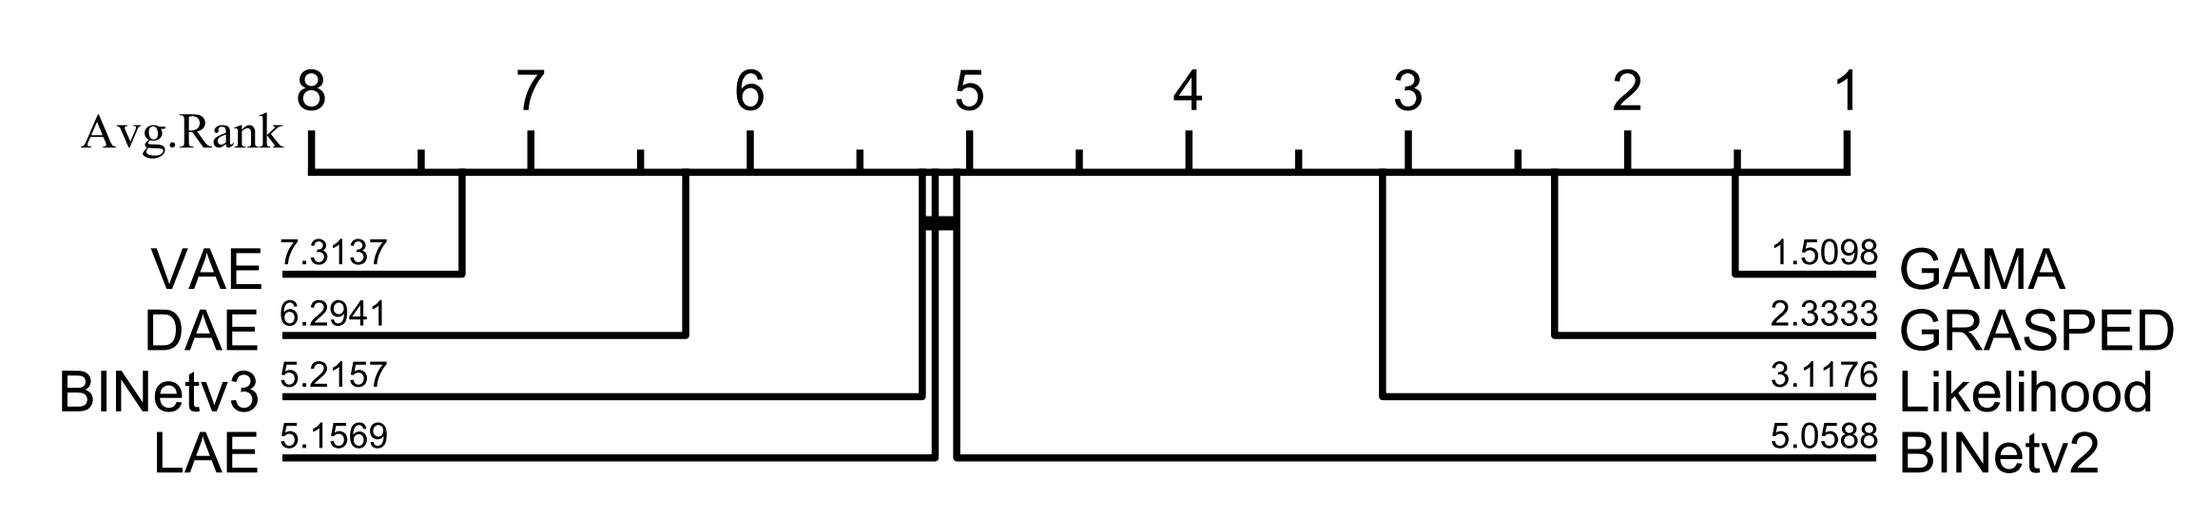
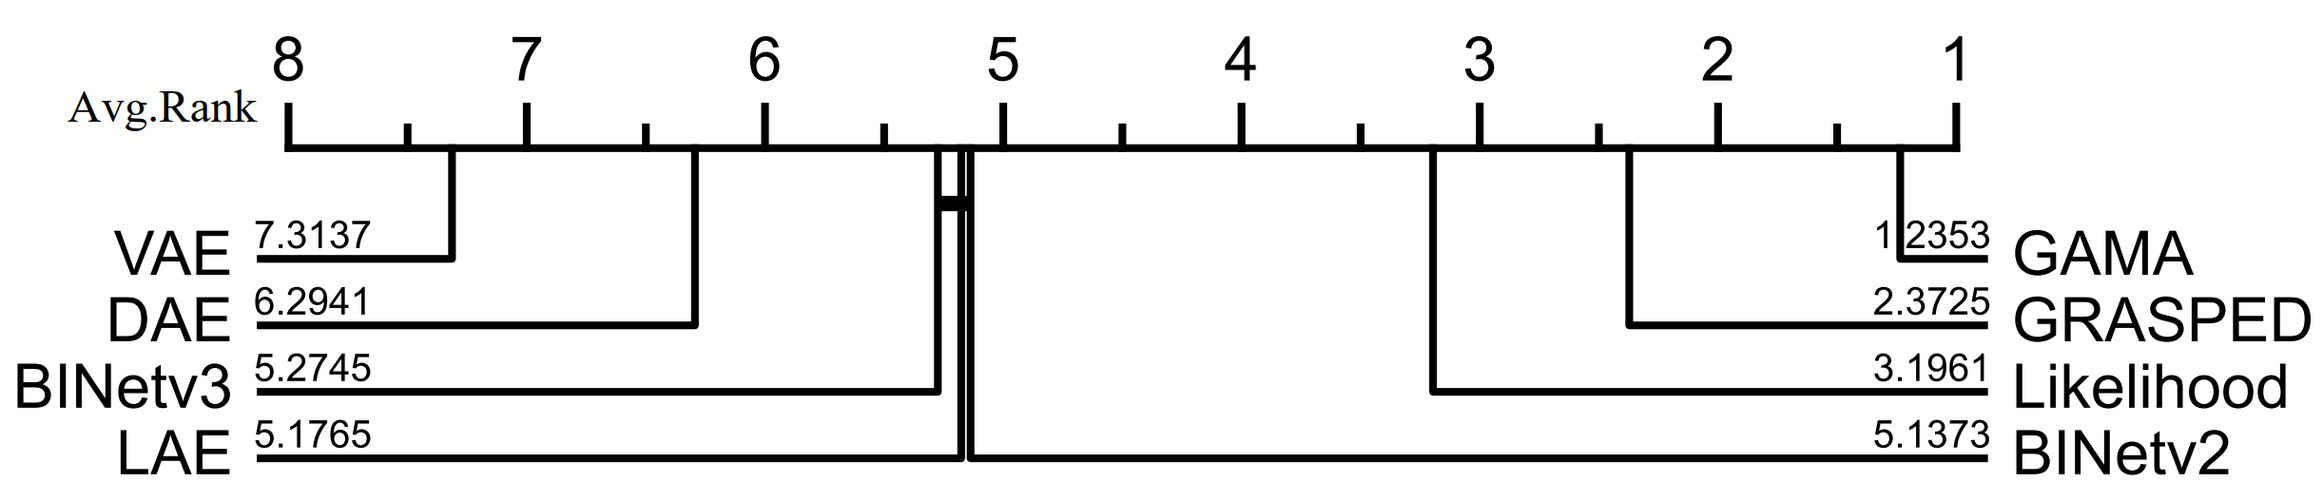
update

diff --git a/README.md b/README.md
@@ -15,25 +15,27 @@ future directions are discussed in order to promote the evolution of business pr
 
 ### Studied Models
 
-|    Model     | Year  |     Perspective     |   Granularity    |                                                                                                                                             Paper                                                                                                                                              |
-|:------------:|:-----:|:-------------------:|:----------------:|:----------------------------------------------------------------------------------------------------------------------------------------------------------------------------------------------------------------------------------------------------------------------------------------------:|
-|    Naive     | 2013  |    Control-flow     |   Trace-level    |            [Algorithms for anomaly detection of traces in logs of process aware information systems](https://www.sciencedirect.com/science/article/abs/pii/S0306437912000567)             |
-|   Sampling   | 2013  |    Control-flow     |   Trace-level    |            [Algorithms for anomaly detection of traces in logs of process aware information systems](https://www.sciencedirect.com/science/article/abs/pii/S0306437912000567)             |
-|  Likelihood  | 2016  |  Multi-perspective  | Attribute-level  |                                                                           [Multi-perspective anomaly detection in business process execution events](https://link.springer.com/chapter/10.1007/978-3-319-48472-3_5)                                                                            |
-|     DAE      | 2018  |  Multi-perspective  | Attribute-level  |                                                                                            [Analyzing business process anomalies using autoencoders](https://link.springer.com/article/10.1007/s10994-018-5702-8)                                                                                             |
-|   BINetv2    | 2018  |  Multi-perspective  | Attribute-level  |                                                                                   [BINet: Multivariate business process anomaly detection using deep learning](https://link.springer.com/chapter/10.1007/978-3-319-98648-7_16)                                                                                   |
-|     VAE      | 2019  |  Multi-perspective  | Attribute-level  |                                                                                            [Autoencoders for improving quality of process event logs](https://www.sciencedirect.com/science/article/abs/pii/S0957417419302829)                                                                                            |
-|     LAE      | 2019  |  Multi-perspective  | Attribute-level  |                                                                                            [Autoencoders for improving quality of process event logs](https://www.sciencedirect.com/science/article/abs/pii/S0957417419302829)                                                                                            |
-|    W2V-LOF   | 2020  |    Control-flow     |   Trace-level    |                                                                                           [Anomaly Detection on Event Logs with a Scarcity of Labels](https://ieeexplore.ieee.org/document/9230308)                                                                                            |
-|   VAE-OCSVM  | 2021  |    Control-flow     |   Trace-level    |                                                                              [Variational Autoencoder for Anomaly Detection in Event Data in Online Process Mining](https://arxiv.org/abs/2208.03326)                                                                              |
-|     GAE      | 2021  |  Multi-perspective  |   Trace-level    |                                                                                           [Graph Autoencoders for Business Process Anomaly Detection](https://link.springer.com/chapter/10.1007/978-3-030-85469-0_26)                                                                                            |
-|   Leverage   | 2022  |    Control-flow     |   Trace-level    | [Keeping our rivers clean: Information-theoretic online anomaly detection for streaming business process events](https://www.sciencedirect.com/science/article/abs/pii/S0306437921001125) |
-|   BINetv3    | 2022  |  Multi-perspective  | Attribute-level  |                                                                                        [BINet: Multi-perspective business process anomaly classification](https://www.sciencedirect.com/science/article/abs/pii/S0306437919305101)                                                                                        |
-|   GRASPED    | 2023  |  Multi-perspective  | Attribute-level  |                                                                           [GRASPED: A GRU-AE Network Based Multi-Perspective Business Process Anomaly Detection Model](https://ieeexplore.ieee.org/document/10088425)                                                                           |
-|     GAMA     | 2023  |  Multi-perspective  | Attribute-level  |                                                                     [GAMA: A Multi-graph-based Anomaly Detection Framework for Business Processes via Graph Neural Networks](https://www.techrxiv.org/articles/preprint/GAMA_A_Multi-graph-based_Anomaly_Detection_Framework_for_Business_Processes_via_Graph_Neural_Networks/23627850)                                                                     |
+|   Model    | Year |    Perspective    |   Granularity   |                                                                                                                                Paper                                                                                                                                |
+|:----------:|:----:|:-----------------:|:---------------:|:-------------------------------------------------------------------------------------------------------------------------------------------------------------------------------------------------------------------------------------------------------------------:|
+|   Naive    | 2013 |   Control-flow    |   Trace-level   |                                                 [Algorithms for anomaly detection of traces in logs of process aware information systems](https://www.sciencedirect.com/science/article/abs/pii/S0306437912000567)                                                  |
+|  Sampling  | 2013 |   Control-flow    |   Trace-level   |                                                 [Algorithms for anomaly detection of traces in logs of process aware information systems](https://www.sciencedirect.com/science/article/abs/pii/S0306437912000567)                                                  |
+| Likelihood | 2016 | Multi-perspective | Attribute-level |                                                              [Multi-perspective anomaly detection in business process execution events](https://link.springer.com/chapter/10.1007/978-3-319-48472-3_5)                                                              |
+|    DAE     | 2018 | Multi-perspective | Attribute-level |                                                                       [Analyzing business process anomalies using autoencoders](https://link.springer.com/article/10.1007/s10994-018-5702-8)                                                                        |
+|  BINetv2   | 2018 | Multi-perspective | Attribute-level |                                                            [BINet: Multivariate business process anomaly detection using deep learning](https://link.springer.com/chapter/10.1007/978-3-319-98648-7_16)                                                             |
+|    VAE     | 2019 | Multi-perspective | Attribute-level |                                                                 [Autoencoders for improving quality of process event logs](https://www.sciencedirect.com/science/article/abs/pii/S0957417419302829)                                                                 |
+|    LAE     | 2019 | Multi-perspective | Attribute-level |                                                                 [Autoencoders for improving quality of process event logs](https://www.sciencedirect.com/science/article/abs/pii/S0957417419302829)                                                                 |
+|  W2V-LOF   | 2020 |   Control-flow    |   Trace-level   |                                                                              [Anomaly Detection on Event Logs with a Scarcity of Labels](https://ieeexplore.ieee.org/document/9230308)                                                                              |
+| VAE-OCSVM  | 2021 |   Control-flow    |   Trace-level   |                                                                      [Variational Autoencoder for Anomaly Detection in Event Data in Online Process Mining](https://arxiv.org/abs/2208.03326)                                                                       |
+|    GAE     | 2021 | Multi-perspective |   Trace-level   |                                                                     [Graph Autoencoders for Business Process Anomaly Detection](https://link.springer.com/chapter/10.1007/978-3-030-85469-0_26)                                                                     |
+|  Leverage  | 2022 |   Control-flow    |   Trace-level   |                                      [Keeping our rivers clean: Information-theoretic online anomaly detection for streaming business process events](https://www.sciencedirect.com/science/article/abs/pii/S0306437921001125)                                      |
+|  BINetv3   | 2022 | Multi-perspective | Attribute-level |                                                             [BINet: Multi-perspective business process anomaly classification](https://www.sciencedirect.com/science/article/abs/pii/S0306437919305101)                                                             |
+|  GRASPED   | 2023 | Multi-perspective | Attribute-level |                                                             [GRASPED: A GRU-AE Network Based Multi-Perspective Business Process Anomaly Detection Model](https://ieeexplore.ieee.org/document/10088425)                                                             |
+|    GAMA    | 2023 | Multi-perspective | Attribute-level | [GAMA: A Multi-graph-based Anomaly Detection Framework for Business Processes via Graph Neural Networks](https://www.techrxiv.org/articles/preprint/GAMA_A_Multi-graph-based_Anomaly_Detection_Framework_for_Business_Processes_via_Graph_Neural_Networks/23627850) |
 
 ## Requirements
+
 ### Win
+
 - [PyTorch==1.13.0](https://pytorch.org)
 - [tensorflow-gpu==2.6.0](https://www.tensorflow.org/)
 - [NumPy==1.21.5](https://numpy.org)
@@ -42,7 +44,9 @@ future directions are discussed in order to promote the evolution of business pr
 - [pyg==2.3.0](https://pytorch-geometric.readthedocs.io/en/latest/index.html)
 - [pandas==1.3.5](https://pandas.pydata.org/)
 - [gensim==4.1.2](https://radimrehurek.com/gensim/)
+
 ### Linux
+
 - [PyTorch==1.13.0](https://pytorch.org)
 - [tensorflow==2.10.0](https://www.tensorflow.org/)
 - [NumPy==1.24.3](https://numpy.org)
@@ -68,15 +72,21 @@ i) **_BPIC12_**: Event log of a loan application process
 
 ii) **_BPIC13_**: Logs of Volvo IT incident and problem management.
 
-iii) **_BPIC15_**: This data is provided by five Dutch municipalities. The data contains all building permit applications over a period of approximately four years. 
+iii) **_BPIC15_**: This data is provided by five Dutch municipalities. The data contains all building permit
+applications over a period of approximately four years.
 
-iv) **_BPIC17_**: This event log pertains to a loan application process of a Dutch financial institute. The data contains all applications filed trough an online system in 2016 and their subsequent events until February 1st 2017, 15:11.
+iv) **_BPIC17_**: This event log pertains to a loan application process of a Dutch financial institute. The data
+contains all applications filed trough an online system in 2016 and their subsequent events until February 1st 2017, 15:
 
-v) **_BPIC20_**: The dataset contains events pertaining to two years of travel expense claims. In 2017, events were collected for two departments, in 2018 for the entire university.
+11.
+
+v) **_BPIC20_**: The dataset contains events pertaining to two years of travel expense claims. In 2017, events were
+collected for two departments, in 2018 for the entire university.
 
 vi) **_Billing_**: This log contains events that pertain to the billing of medical services provided by a hospital.
 
-vii) **_Receipt_**: This log contains records of the receiving phase of the building permit application process in an anonymous municipality.
+vii) **_Receipt_**: This log contains records of the receiving phase of the building permit application process in an
+anonymous municipality.
 
 viii) **_RTFMP_**: Real-life event log of an information system managing road traffic fines.
 
@@ -87,37 +97,38 @@ and **_Wide_**.
 
 The summary of statistics for each event log is presented below:
 
-| Log            | #Activities    | #Traces    | #Events         | Max trace length       | Min trace length    | #Attributes    | #Attribute values  |
-|:--------------:|:--------------:|:----------:|:---------------:|:----------------------:|:-------------------:|:--------------:|:------------------:|
-| Gigantic   | 76-78        | 5000     | 28243-31989 | 11               | 3                | 1-4          | 70-363             |
-| Huge       | 54           | 5000     | 36377-42999 | 11               | 5                | 1-4          | 69-340             |
-| Large      | 42           | 5000     | 51099-56850 | 12               | 10               | 1-4          | 68-292             |
-| Medium     | 32           | 5000     | 28416-31372 | 8                | 3                | 1-4          | 66-276             |
-| P2P        | 13           | 5000     | 37941-42634 | 11               | 7                | 1-4          | 39-146             |
-| Paper      | 14           | 5000     | 49839-54390 | 12               | 9                | 1-4          | 36-128             |
-| Small      | 20           | 5000     | 42845-46060 | 10               | 7                | 1-4          | 39-144             |
-| Wide       | 23-34        | 5000     | 29128-31228 | 7                | 5-6              | 1-4          | 53-264             |
-| BPIC12     | 36           | 13087    | 262200      | 175              | 3                | 0            | 0                  |
-| BPIC13\_C  | 7            | 1487     | 6660        | 35               | 1                | 4            | 638                |
-| BPIC13\_I  | 13           | 7554     | 65533       | 123              | 1                | 4            | 2144               |
-| BPIC13\_O  | 5            | 819      | 2351        | 22               | 1                | 2            | 251                |
-| BPIC15\_1  | 398          | 1199     | 52217       | 101              | 2                | 2            | 49                 |
-| BPIC15\_2  | 410          | 832      | 44354       | 132              | 1                | 2            | 20                 |
-| BPIC15\_3  | 383          | 1409     | 59681       | 124              | 3                | 3            | 419                |
-| BPIC15\_4  | 356          | 1053     | 47293       | 116              | 1                | 2            | 22                 |
-| BPIC15\_5  | 389          | 1156     | 59083       | 154              | 5                | 2            | 38                 |
-| BPIC17     | 26           | 31509    | 1202267     | 180              | 10               | 1            | 149                |
-| BPIC20\_D  | 17           | 10500    | 56437       | 24               | 1                | 2            | 9                  |
-| BPIC20\_I  | 34           | 6449     | 72151       | 27               | 3                | 2            | 10                 |
-| BPIC20\_PE | 51           | 7065     | 86581       | 90               | 3                | 2            | 10                 |
-| BPIC20\_PR | 29           | 2099     | 18246       | 21               | 1                | 2            | 10                 |
-| BPIC20\_R  | 19           | 6886     | 36796       | 20               | 1                | 2            | 10                 |
-| Billing    | 18           | 100000   | 451359      | 217              | 1                | 0            | 0                  |
-| Receipt    | 27           | 1434     | 8577        | 25               | 1                | 2            | 58                 |
-| RTFMP      | 11           | 150370   | 561470      | 20               | 2                | 0            | 0                  |
-| Sepsis     | 16           | 1050     | 15214       | 185              | 3                | 1            | 26                 |
+|    Log     | #Activities | #Traces |   #Events   | Max trace length | Min trace length | #Attributes | #Attribute values |
+|:----------:|:-----------:|:-------:|:-----------:|:----------------:|:----------------:|:-----------:|:-----------------:|
+|  Gigantic  |    76-78    |  5000   | 28243-31989 |        11        |        3         |     1-4     |      70-363       |
+|    Huge    |     54      |  5000   | 36377-42999 |        11        |        5         |     1-4     |      69-340       |
+|   Large    |     42      |  5000   | 51099-56850 |        12        |        10        |     1-4     |      68-292       |
+|   Medium   |     32      |  5000   | 28416-31372 |        8         |        3         |     1-4     |      66-276       |
+|    P2P     |     13      |  5000   | 37941-42634 |        11        |        7         |     1-4     |      39-146       |
+|   Paper    |     14      |  5000   | 49839-54390 |        12        |        9         |     1-4     |      36-128       |
+|   Small    |     20      |  5000   | 42845-46060 |        10        |        7         |     1-4     |      39-144       |
+|    Wide    |    23-34    |  5000   | 29128-31228 |        7         |       5-6        |     1-4     |      53-264       |
+|   BPIC12   |     36      |  13087  |   262200    |       175        |        3         |      0      |         0         |
+| BPIC13\_C  |      7      |  1487   |    6660     |        35        |        1         |      4      |        638        |
+| BPIC13\_I  |     13      |  7554   |    65533    |       123        |        1         |      4      |       2144        |
+| BPIC13\_O  |      5      |   819   |    2351     |        22        |        1         |      2      |        251        |
+| BPIC15\_1  |     398     |  1199   |    52217    |       101        |        2         |      2      |        49         |
+| BPIC15\_2  |     410     |   832   |    44354    |       132        |        1         |      2      |        20         |
+| BPIC15\_3  |     383     |  1409   |    59681    |       124        |        3         |      3      |        419        |
+| BPIC15\_4  |     356     |  1053   |    47293    |       116        |        1         |      2      |        22         |
+| BPIC15\_5  |     389     |  1156   |    59083    |       154        |        5         |      2      |        38         |
+|   BPIC17   |     26      |  31509  |   1202267   |       180        |        10        |      1      |        149        |
+| BPIC20\_D  |     17      |  10500  |    56437    |        24        |        1         |      2      |         9         |
+| BPIC20\_I  |     34      |  6449   |    72151    |        27        |        3         |      2      |        10         |
+| BPIC20\_PE |     51      |  7065   |    86581    |        90        |        3         |      2      |        10         |
+| BPIC20\_PR |     29      |  2099   |    18246    |        21        |        1         |      2      |        10         |
+| BPIC20\_R  |     19      |  6886   |    36796    |        20        |        1         |      2      |        10         |
+|  Billing   |     18      | 100000  |   451359    |       217        |        1         |      0      |         0         |
+|  Receipt   |     27      |  1434   |    8577     |        25        |        1         |      2      |        58         |
+|   RTFMP    |     11      | 150370  |   561470    |        20        |        2         |      0      |         0         |
+|   Sepsis   |     16      |  1050   |    15214    |       185        |        3         |      1      |        26         |
 
 ## Experiment Results
+
 Critical difference diagram over trace-level anomaly detection:
 ![model](pic/multiType_trace_aupr.png)
 
@@ -126,33 +137,32 @@ Critical difference diagram over attribute-level anomaly detection:
 
 Average precision (_AP_) of trace-level anomaly detection:
 
-|              | Gigantic  | Huge      | Large     | Medium    | P2P       | Paper     | Small     | Wide      | BPIC12    | BPIC13\_C | BPIC13\_I | BPIC13\_O | BPIC15\_1 | BPIC15\_2 | BPIC15\_3 | BPIC15\_4 | BPIC15\_5 | BPIC17    | BPIC20\_D | BPIC20\_I | BPIC20\_PE | BPIC20\_PR | BPIC20\_R | Billing   | Receipt   | RTFMP     | Sepsis    |
-|:------------:|:---------:|:---------:|:---------:|:---------:|:---------:|:---------:|:---------:|:---------:|:---------:|:---------:|:---------:|:---------:|:---------:|:---------:|:---------:|:---------:|:---------:|:---------:|:---------:|:---------:|:----------:|:----------:|:---------:|:---------:|:---------:|:---------:|:---------:|
-| Naive        | 0.43      | 0.551     | 0.58      | 0.556     | 0.772     | 0.796     | 0.853     | 0.66      | 0.279     | 0.311     | 0.305     | 0.249     | 0.258     | 0.251     | 0.253     | 0.251     | 0.25      | 0.261     | 0.586     | 0.355     | 0.316      | 0.445      | 0.6       | 0.522     | 0.521     | 0.643     | 0.254     |
-| Sampling     | 0.756     | 0.846     | 0.875     | 0.818     | 0.85      | 0.864     | 0.859     | 0.848     | 0.276     | 0.315     | 0.298     | 0.255     | 0.258     | 0.251     | 0.253     | 0.251     | 0.25      | 0.26      | 0.61      | 0.361     | 0.315      | 0.491      | 0.622     | 0.55      | 0.522     | 0.575     | 0.253     |
-| Leverage     | 0.827     | 0.897     | 0.907     | 0.887     | 0.887     | 0.894     | 0.893     | 0.897     | 0.449     | 0.544     | 0.502     | 0.432     | 0         | 0         | 0         | 0         | 0         | 0.295     | 0.785     | 0.697     | 0.561      | 0.681      | 0.76      | 0.387     | 0.698     | 0.889     | 0.305     |
-| Likelihood   | 0.8       | 0.927     | 0.946     | 0.905     | 0.975     | 0.982     | **0.989** | 0.932     | **0.831** | 0.274     | 0.309     | 0.211     | 0.365     | 0.344     | 0.416     | 0.375     | 0.379     | 0.504     | **0.909** | **0.855** | 0.754      | **0.829**  | **0.895** | **0.821** | 0.564     | **0.893** | 0.615     |
-| W2V-LOF      | 0.58      | 0.723     | 0.759     | 0.664     | 0.677     | 0.75      | 0.714     | 0.691     | 0.297     | 0.28      | 0.307     | 0.231     | 0.276     | 0.275     | 0.313     | 0.299     | 0.299     | 0.342     | 0.442     | 0.442     | 0.406      | 0.48       | 0.458     | 0.285     | 0.495     | 0.218     | 0.31      |
-| VAE-OCSVM    | 0.247     | 0.238     | 0.24      | 0.244     | 0.24      | 0.236     | 0.238     | 0.24      | 0.2       | 0.213     | 0.247     | 0.164     | 0.257     | 0.253     | 0.249     | 0.248     | 0.243     | 0.246     | 0.241     | 0.246     | 0.246      | 0.25       | 0.24      | 0.148     | 0.239     | 0.152     | 0.242     |
-| GAE          | 0.385     | 0.363     | 0.551     | 0.358     | 0.573     | 0.464     | 0.426     | 0.59      | 0.37      | 0.266     | 0.314     | 0.257     | 0.259     | 0.255     | 0.27      | 0.254     | 0.257     | 0.256     | 0.432     | 0.297     | 0.288      | 0.3        | 0.4       | 0.285     | 0.303     | 0.293     | 0.283     |
-| DAE          | 0.569     | 0.564     | 0.621     | 0.634     | 0.656     | 0.579     | 0.658     | 0.675     | 0.621     | 0.389     | 0.444     | 0.321     | 0.286     | 0.282     | 0.291     | 0.289     | 0.302     | 0.452     | 0.849     | 0.589     | 0.577      | 0.572      | 0.846     | 0.689     | 0.587     | 0.83      | 0.373     |
-| VAE          | 0.507     | 0.578     | 0.662     | 0.58      | 0.593     | 0.802     | 0.775     | 0.597     | 0.634     | 0.328     | 0.316     | 0.252     | 0.272     | 0.273     | 0.288     | 0.266     | 0.267     | 0.319     | 0.662     | 0.379     | 0.417      | 0.365      | 0.583     | 0.646     | 0.475     | 0.854     | 0.443     |
-| LAE          | 0.465     | 0.553     | 0.557     | 0.624     | 0.727     | 0.757     | 0.828     | 0.76      | 0.659     | 0.301     | 0.272     | 0.327     | 0.268     | 0.263     | 0.26      | 0.264     | 0.259     | 0.298     | 0.731     | 0.496     | 0.492      | 0.613      | 0.822     | 0.749     | 0.451     | 0.881     | 0.322     |
-| BINetv2      | 0.534     | 0.598     | 0.596     | 0.583     | 0.639     | 0.62      | 0.609     | 0.581     | 0.736     | 0.181     | 0.546     | 0.169     | 0.283     | 0.267     | 0.287     | 0.291     | 0.277     | 0.69      | 0.834     | 0.835     | **0.821**  | 0.815      | 0.849     | 0.645     | 0.33      | 0.695     | 0.311     |
-| BINetv3      | 0.542     | 0.579     | 0.614     | 0.622     | 0.611     | 0.616     | 0.619     | 0.598     | 0.682     | 0.269     | 0.535     | 0.206     | 0.287     | 0.27      | 0.289     | 0.271     | 0.276     | 0.689     | 0.799     | 0.827     | 0.817      | 0.778      | 0.799     | 0.688     | 0.323     | 0.724     | 0.311     |
-| GRASPED      | 0.824     | 0.924     | 0.941     | 0.885     | 0.961     | 0.977     | 0.966     | 0.907     | 0.735     | 0.556     | **0.579** | 0.427     | **0.480** | **0.459** | **0.491** | **0.503** | **0.508** | **0.796** | 0.755     | 0.8       | 0.758      | 0.727      | 0.839     | 0.16      | 0.644     | 0.156     | 0.47      |
-| GAMA         | **0.900** | **0.965** | **0.977** | **0.933** | **0.980** | **0.984** | 0.985     | **0.971** | 0.772     | **0.578** | 0.531     | **0.456** | 0.391     | 0.457     | 0.423     | 0.443     | 0.405     | 0.423     | 0.633     | 0.659     | 0.624      | 0.753      | 0.709     | 0.742     | **0.795** | 0.664     | **0.659** |
-
+|            | Gigantic  |   Huge    |   Large   |  Medium   |    P2P    |   Paper   |   Small   |   Wide    |  BPIC12   | BPIC13\_C | BPIC13\_I | BPIC13\_O | BPIC15\_1 | BPIC15\_2 | BPIC15\_3 | BPIC15\_4 | BPIC15\_5 |  BPIC17   | BPIC20\_D | BPIC20\_I | BPIC20\_PE | BPIC20\_PR | BPIC20\_R |  Billing  |  Receipt  |   RTFMP   |  Sepsis   |
+|:----------:|:---------:|:---------:|:---------:|:---------:|:---------:|:---------:|:---------:|:---------:|:---------:|:---------:|:---------:|:---------:|:---------:|:---------:|:---------:|:---------:|:---------:|:---------:|:---------:|:---------:|:----------:|:----------:|:---------:|:---------:|:---------:|:---------:|:---------:|
+|   Naive    |   0.430   |   0.551   |   0.580   |   0.556   |   0.772   |   0.796   |   0.853   |   0.660   |   0.279   |   0.311   |   0.305   |   0.249   |   0.258   |   0.251   |   0.253   |   0.251   |   0.250   |   0.261   |   0.586   |   0.355   |   0.316    |   0.445    |   0.600   |   0.522   |   0.521   |   0.643   |   0.254   |
+|  Sampling  |   0.756   |   0.846   |   0.875   |   0.818   |   0.85    |   0.864   |   0.859   |   0.848   |   0.276   |   0.315   |   0.298   |   0.255   |   0.258   |   0.251   |   0.253   |   0.251   |   0.250   |   0.260   |   0.610   |   0.361   |   0.315    |   0.491    |   0.622   |   0.550   |   0.522   |   0.575   |   0.253   |
+|  Leverage  |   0.827   |   0.897   |   0.907   |   0.887   |   0.887   |   0.894   |   0.893   |   0.897   |   0.449   |   0.544   |   0.502   |   0.432   |     0     |     0     |     0     |     0     |     0     |   0.295   |   0.785   |   0.697   |   0.561    |   0.681    |   0.760   |   0.387   |   0.698   |   0.889   |   0.305   |
+| Likelihood |   0.800   |   0.927   |   0.946   |   0.905   |   0.975   | **0.982** | **0.989** |   0.932   |   0.831   |   0.274   |   0.309   |   0.211   |   0.365   |   0.344   |   0.416   |   0.375   |   0.379   |   0.504   |   0.909   |   0.855   |   0.754    |   0.829    |   0.895   | **0.821** |   0.564   | **0.893** | **0.615** |
+|  W2V-LOF   |   0.617   |   0.734   |   0.775   |   0.712   |   0.752   |   0.801   |   0.781   |   0.759   |   0.402   |   0.359   |   0.370   |   0.288   |   0.302   |   0.316   |   0.373   |   0.338   |   0.340   |   0.430   |   0.472   |   0.523   |   0.521    |   0.563    |   0.483   |   0.280   |   0.618   |   0.258   |   0.363   |
+| VAE-OCSVM  |   0.241   |   0.229   |   0.225   |   0.239   |   0.231   |   0.222   |   0.226   |   0.233   |   0.190   |   0.217   |   0.247   |   0.169   |   0.263   |   0.265   |   0.247   |   0.246   |   0.245   |   0.242   |   0.235   |   0.240   |   0.236    |   0.244    |   0.232   |   0.148   |   0.240   |   0.150   |   0.238   |
+|    GAE     |   0.459   |   0.416   |   0.617   |   0.411   |   0.615   |   0.537   |   0.494   |   0.648   |   0.386   |   0.334   |   0.321   |   0.237   |   0.259   |   0.255   |   0.271   |   0.255   |   0.258   |   0.256   |   0.452   |   0.301   |   0.296    |   0.316    |   0.434   |   0.290   |   0.284   |   0.396   |   0.278   |
+|    DAE     |   0.569   |   0.564   |   0.621   |   0.634   |   0.656   |   0.579   |   0.658   |   0.675   |   0.621   |   0.389   |   0.444   |   0.321   |   0.286   |   0.282   |   0.291   |   0.289   |   0.302   |   0.452   |   0.849   |   0.589   |   0.577    |   0.572    |   0.846   |   0.689   |   0.587   |   0.830   |   0.373   |
+|    VAE     |   0.507   |   0.578   |   0.662   |   0.580   |   0.593   |   0.802   |   0.775   |   0.597   |   0.634   |   0.328   |   0.316   |   0.252   |   0.272   |   0.273   |   0.288   |   0.266   |   0.267   |   0.319   |   0.662   |   0.379   |   0.417    |   0.365    |   0.583   |   0.646   |   0.475   |   0.854   |   0.443   |
+|    LAE     |   0.465   |   0.553   |   0.557   |   0.624   |   0.727   |   0.757   |   0.828   |   0.760   |   0.659   |   0.301   |   0.272   |   0.327   |   0.268   |   0.263   |   0.260   |   0.264   |   0.259   |   0.298   |   0.731   |   0.496   |   0.492    |   0.613    |   0.822   |   0.749   |   0.451   |   0.881   |   0.322   |
+|  BINetv2   |   0.534   |   0.598   |   0.596   |   0.583   |   0.639   |   0.620   |   0.609   |   0.581   |   0.736   |   0.181   |   0.546   |   0.169   |   0.283   |   0.267   |   0.287   |   0.291   |   0.277   |   0.690   |   0.834   |   0.835   |   0.821    |   0.815    |   0.849   |   0.645   |   0.33    |   0.695   |   0.311   |
+|  BINetv3   |   0.542   |   0.579   |   0.614   |   0.622   |   0.611   |   0.616   |   0.619   |   0.598   |   0.682   |   0.269   |   0.535   |   0.206   |   0.287   |   0.270   |   0.289   |   0.271   |   0.276   |   0.689   |   0.799   |   0.827   |   0.817    |   0.778    |   0.799   |   0.688   |   0.323   |   0.724   |   0.311   |
+|  GRASPED   |   0.824   |   0.924   |   0.941   |   0.885   |   0.961   |   0.977   |   0.966   |   0.907   |   0.735   |   0.556   |   0.579   |   0.427   | **0.480** | **0.459** | **0.491** | **0.503** | **0.508** |   0.796   |   0.755   |   0.800   |   0.758    |   0.727    |   0.839   |   0.160   |   0.644   |   0.156   |   0.470   |
+|    GAMA    | **0.902** | **0.959** | **0.953** | **0.935** | **0.978** |   0.980   |   0.985   | **0.964** | **0.854** | **0.559** | **0.615** | **0.452** |   0.440   | **0.459** |   0.488   |   0.470   |   0.453   | **0.800** | **0.946** | **0.916** | **0.869**  | **0.835**  | **0.942** |   0.723   | **0.775** |   0.850   |   0.552   |
 
 Average precision (_AP_) of attribute-level anomaly detection:
 
-|            | Gigantic  | Huge      | Large     | Medium    | P2P       | Paper     | Small     | Wide      | BPIC12    | BPIC13\_C | BPIC13\_I | BPIC13\_O | BPIC15\_1 | BPIC15\_2 | BPIC15\_3 | BPIC15\_4 | BPIC15\_5 | BPIC17    | BPIC20\_D | BPIC20\_I | BPIC20\_PE | BPIC20\_PR | BPIC20\_R | Billing   | Receipt   | RTFMP     | Sepsis    |
+|            | Gigantic  |   Huge    |   Large   |  Medium   |    P2P    |   Paper   |   Small   |   Wide    |  BPIC12   | BPIC13\_C | BPIC13\_I | BPIC13\_O | BPIC15\_1 | BPIC15\_2 | BPIC15\_3 | BPIC15\_4 | BPIC15\_5 |  BPIC17   | BPIC20\_D | BPIC20\_I | BPIC20\_PE | BPIC20\_PR | BPIC20\_R |  Billing  |  Receipt  |   RTFMP   |  Sepsis   |
 |:----------:|:---------:|:---------:|:---------:|:---------:|:---------:|:---------:|:---------:|:---------:|:---------:|:---------:|:---------:|:---------:|:---------:|:---------:|:---------:|:---------:|:---------:|:---------:|:---------:|:---------:|:----------:|:----------:|:---------:|:---------:|:---------:|:---------:|:---------:|
-| Likelihood | 0.414     | 0.5       | 0.493     | 0.511     | 0.559     | 0.555     | 0.565     | 0.523     | 0.453     | 0.044     | 0.027     | 0.06      | 0.039     | 0.042     | 0.065     | 0.05      | 0.043     | 0.1       | **0.547** | 0.428     | 0.353      | 0.433      | **0.545** | **0.533** | 0.183     | **0.609** | 0.332     |
-| DAE        | 0.128     | 0.156     | 0.143     | 0.182     | 0.182     | 0.166     | 0.181     | 0.193     | 0.226     | 0.104     | 0.08      | 0.105     | 0.006     | 0.005     | 0.007     | 0.007     | 0.006     | 0.087     | 0.296     | 0.161     | 0.13       | 0.118      | 0.255     | 0.363     | 0.08      | 0.458     | 0.066     |
-| VAE        | 0.069     | 0.084     | 0.088     | 0.107     | 0.101     | 0.099     | 0.111     | 0.11      | 0.206     | 0.127     | 0.088     | 0.096     | 0.018     | 0.03      | 0.016     | 0.026     | 0.04      | 0.045     | 0.13      | 0.069     | 0.074      | 0.047      | 0.105     | 0.342     | 0.065     | 0.481     | 0.086     |
-| LAE        | 0.183     | 0.207     | 0.16      | 0.214     | 0.198     | 0.166     | 0.175     | 0.201     | 0.361     | 0.137     | 0.104     | 0.138     | 0.03      | 0.029     | 0.045     | 0.063     | 0.032     | 0.125     | 0.494     | 0.312     | 0.267      | 0.157      | 0.398     | 0.44      | 0.126     | 0.403     | 0.052     |
-| BINetv2    | 0.258     | 0.301     | 0.288     | 0.291     | 0.312     | 0.303     | 0.331     | 0.297     | 0.425     | 0.026     | 0.14      | 0.034     | 0.007     | 0.004     | 0.016     | 0.006     | 0.005     | 0.266     | 0.485     | **0.476** | 0.44       | 0.48       | 0.497     | 0.368     | 0.07      | 0.418     | 0.033     |
-| BINetv3    | 0.271     | 0.303     | 0.304     | 0.323     | 0.302     | 0.307     | 0.33      | 0.313     | 0.386     | 0.045     | 0.15      | 0.029     | 0.008     | 0.004     | 0.009     | 0.005     | 0.007     | 0.264     | 0.442     | 0.44      | 0.409      | 0.431      | 0.456     | 0.402     | 0.073     | 0.449     | 0.03      |
-| GRASPED    | 0.553     | 0.626     | 0.64      | 0.567     | 0.537     | 0.603     | 0.56      | 0.516     | 0.413     | **0.473** | **0.300** | **0.313** | **0.287** | **0.252** | **0.310** | **0.298** | **0.308** | **0.461** | 0.28      | 0.462     | **0.443**  | 0.455      | 0.356     | 0.005     | 0.478     | 0.015     | 0.279     |
-| GAMA       | **0.683** | **0.747** | **0.735** | **0.703** | **0.674** | **0.694** | **0.707** | **0.710** | **0.453** | 0.293     | 0.202     | 0.268     | 0.136     | 0.247     | 0.162     | 0.18      | 0.144     | 0.151     | 0.37      | 0.365     | 0.318      | **0.496**  | 0.434     | 0.396     | **0.530** | 0.342     | **0.449** |
+| Likelihood |   0.414   |   0.500   |   0.493   |   0.511   |   0.559   |   0.555   |   0.565   |   0.523   |   0.453   |   0.044   |   0.027   |   0.060   |   0.039   |   0.042   |   0.065   |   0.050   |   0.043   |   0.100   | **0.547** |   0.428   |   0.353    |   0.433    |   0.545   | **0.533** |   0.183   | **0.609** |   0.332   |
+|    DAE     |   0.128   |   0.156   |   0.143   |   0.182   |   0.182   |   0.166   |   0.181   |   0.193   |   0.226   |   0.104   |   0.080   |   0.105   |   0.006   |   0.005   |   0.007   |   0.007   |   0.006   |   0.087   |   0.296   |   0.161   |   0.130    |   0.118    |   0.255   |   0.363   |   0.080   |   0.458   |   0.066   |
+|    VAE     |   0.069   |   0.084   |   0.088   |   0.107   |   0.101   |   0.099   |   0.111   |   0.110   |   0.206   |   0.127   |   0.088   |   0.096   |   0.018   |   0.030   |   0.016   |   0.026   |   0.040   |   0.045   |   0.130   |   0.069   |   0.074    |   0.047    |   0.105   |   0.342   |   0.065   |   0.481   |   0.086   |
+|    LAE     |   0.183   |   0.207   |   0.160   |   0.214   |   0.198   |   0.166   |   0.175   |   0.201   |   0.361   |   0.137   |   0.104   |   0.138   |   0.030   |   0.029   |   0.045   |   0.063   |   0.032   |   0.125   |   0.494   |   0.312   |   0.267    |   0.157    |   0.398   |   0.440   |   0.126   |   0.403   |   0.052   |
+|  BINetv2   |   0.258   |   0.301   |   0.288   |   0.291   |   0.312   |   0.303   |   0.331   |   0.297   |   0.425   |   0.026   |   0.140   |   0.034   |   0.007   |   0.004   |   0.016   |   0.006   |   0.005   |   0.266   |   0.485   |   0.476   |   0.440    |   0.480    |   0.497   |   0.368   |   0.070   |   0.418   |   0.033   |
+|  BINetv3   |   0.271   |   0.303   |   0.304   |   0.323   |   0.302   |   0.307   |   0.330   |   0.313   |   0.386   |   0.045   |   0.150   |   0.029   |   0.008   |   0.004   |   0.009   |   0.005   |   0.007   |   0.264   |   0.442   |   0.440   |   0.409    |   0.431    |   0.456   |   0.402   |   0.073   |   0.449   |   0.030   |
+|  GRASPED   |   0.553   |   0.626   |   0.640   |   0.567   |   0.537   |   0.603   |   0.560   |   0.516   |   0.413   | **0.473** | **0.300** |   0.313   | **0.287** | **0.252** |   0.310   | **0.298** | **0.308** | **0.461** |   0.280   |   0.462   |   0.443    |   0.455    |   0.356   |   0.005   |   0.478   |   0.015   |   0.279   |
+|    GAMA    | **0.666** | **0.718** | **0.716** | **0.682** | **0.689** | **0.721** | **0.737** | **0.690** | **0.524** |   0.350   |   0.252   | **0.332** |   0.209   |   0.250   | **0.316** |   0.246   |   0.222   |   0.422   |   0.541   | **0.592** | **0.555**  | **0.639**  | **0.573** |   0.366   | **0.555** |   0.484   | **0.363** |
